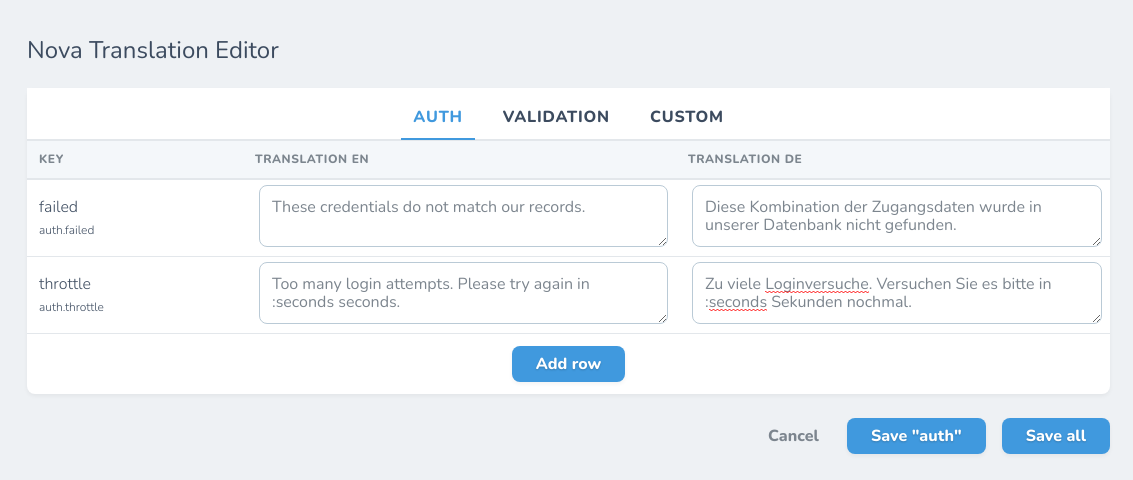
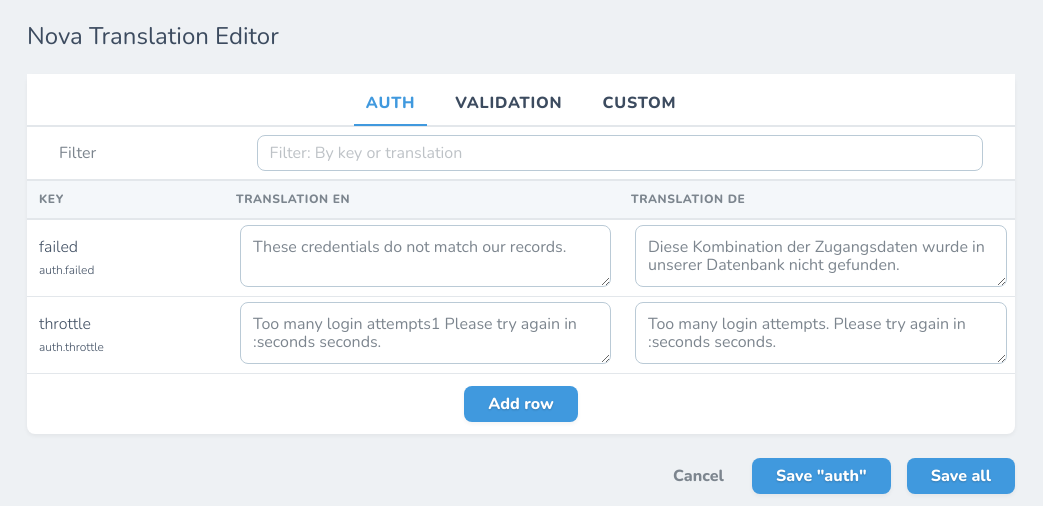
ADD: Filter

diff --git a/dist/js/tool.js b/dist/js/tool.js
@@ -1,1 +1,1 @@
-!function(t){var e={};function n(r){if(e[r])return e[r].exports;var a=e[r]={i:r,l:!1,exports:{}};return t[r].call(a.exports,a,a.exports,n),a.l=!0,a.exports}n.m=t,n.c=e,n.d=function(t,e,r){n.o(t,e)||Object.defineProperty(t,e,{configurable:!1,enumerable:!0,get:r})},n.n=function(t){var e=t&&t.__esModule?function(){return t.default}:function(){return t};return n.d(e,"a",e),e},n.o=function(t,e){return Object.prototype.hasOwnProperty.call(t,e)},n.p="",n(n.s=1)}([function(t,e){t.exports=function(t,e,n,r,a,s){var o,i=t=t||{},u=typeof t.default;"object"!==u&&"function"!==u||(o=t,i=t.default);var l,c="function"==typeof i?i.options:i;if(e&&(c.render=e.render,c.staticRenderFns=e.staticRenderFns,c._compiled=!0),n&&(c.functional=!0),a&&(c._scopeId=a),s?(l=function(t){(t=t||this.$vnode&&this.$vnode.ssrContext||this.parent&&this.parent.$vnode&&this.parent.$vnode.ssrContext)||"undefined"==typeof __VUE_SSR_CONTEXT__||(t=__VUE_SSR_CONTEXT__),r&&r.call(this,t),t&&t._registeredComponents&&t._registeredComponents.add(s)},c._ssrRegister=l):r&&(l=r),l){var d=c.functional,p=d?c.render:c.beforeCreate;d?(c._injectStyles=l,c.render=function(t,e){return l.call(e),p(t,e)}):c.beforeCreate=p?[].concat(p,l):[l]}return{esModule:o,exports:i,options:c}}},function(t,e,n){t.exports=n(2)},function(t,e,n){Nova.booting(function(t,e,r){e.addRoutes([{name:"nova-translation-editor",path:"/nova-translation-editor",component:n(3)}])})},function(t,e,n){var r=n(0)(n(4),n(13),!1,null,null,null);t.exports=r.exports},function(t,e,n){"use strict";Object.defineProperty(e,"__esModule",{value:!0});var r=n(5),a=n.n(r);e.default={components:{AddRowModal:a.a},metaInfo:function(){return{title:this.title+" - "+this.currentGroup}},data:function(){return{title:"Nova Translation Editor",apiUrl:"/nova-vendor/nova-translation-editor/",translations:null,currentGroup:null,showNewModal:!1,loaded:!1,languages:[]}},mounted:function(){this.getData()},computed:{existingKeys:function(){return Object.keys(this.translations[this.currentGroup])},showTable:function(){return this.translations&&Object.keys(this.translations).length>0}},methods:{getData:function(){var t=this;Nova.request().get(this.apiUrl+"index").then(function(e){t.loaded=!0,e.data&&e.data.translations&&(t.translations=e.data.translations,t.languages=e.data.languages,t.currentGroup=Object.keys(t.translations)[0])})},addRow:function(t){var e={};for(var n in this.languages)e[this.languages[n]]="";this.translations[this.currentGroup][t]=e,this.showNewModal=!1},save:function(t){var e=this,n={};t?n[t]=this.translations[t]:n=this.translations,Nova.request().post(this.apiUrl+"save",{data:n}).then(function(t){e.$toasted.show("Saved",{type:"success"})}).catch(function(t){e.$toasted.show(t,{type:"error"})})}}}},function(t,e,n){var r=n(0)(n(11),n(12),!1,function(t){n(6)},"data-v-05dcb287",null);t.exports=r.exports},function(t,e,n){var r=n(7);"string"==typeof r&&(r=[[t.i,r,""]]),r.locals&&(t.exports=r.locals);n(9)("039842e2",r,!0,{})},function(t,e,n){(t.exports=n(8)(!1)).push([t.i,"",""])},function(t,e){t.exports=function(t){var e=[];return e.toString=function(){return this.map(function(e){var n=function(t,e){var n=t[1]||"",r=t[3];if(!r)return n;if(e&&"function"==typeof btoa){var a=(o=r,"/*# sourceMappingURL=data:application/json;charset=utf-8;base64,"+btoa(unescape(encodeURIComponent(JSON.stringify(o))))+" */"),s=r.sources.map(function(t){return"/*# sourceURL="+r.sourceRoot+t+" */"});return[n].concat(s).concat([a]).join("\n")}var o;return[n].join("\n")}(e,t);return e[2]?"@media "+e[2]+"{"+n+"}":n}).join("")},e.i=function(t,n){"string"==typeof t&&(t=[[null,t,""]]);for(var r={},a=0;a<this.length;a++){var s=this[a][0];"number"==typeof s&&(r[s]=!0)}for(a=0;a<t.length;a++){var o=t[a];"number"==typeof o[0]&&r[o[0]]||(n&&!o[2]?o[2]=n:n&&(o[2]="("+o[2]+") and ("+n+")"),e.push(o))}},e}},function(t,e,n){var r="undefined"!=typeof document;if("undefined"!=typeof DEBUG&&DEBUG&&!r)throw new Error("vue-style-loader cannot be used in a non-browser environment. Use { target: 'node' } in your Webpack config to indicate a server-rendering environment.");var a=n(10),s={},o=r&&(document.head||document.getElementsByTagName("head")[0]),i=null,u=0,l=!1,c=function(){},d=null,p="data-vue-ssr-id",f="undefined"!=typeof navigator&&/msie [6-9]\b/.test(navigator.userAgent.toLowerCase());function v(t){for(var e=0;e<t.length;e++){var n=t[e],r=s[n.id];if(r){r.refs++;for(var a=0;a<r.parts.length;a++)r.parts[a](n.parts[a]);for(;a<n.parts.length;a++)r.parts.push(m(n.parts[a]));r.parts.length>n.parts.length&&(r.parts.length=n.parts.length)}else{var o=[];for(a=0;a<n.parts.length;a++)o.push(m(n.parts[a]));s[n.id]={id:n.id,refs:1,parts:o}}}}function h(){var t=document.createElement("style");return t.type="text/css",o.appendChild(t),t}function m(t){var e,n,r=document.querySelector("style["+p+'~="'+t.id+'"]');if(r){if(l)return c;r.parentNode.removeChild(r)}if(f){var a=u++;r=i||(i=h()),e=g.bind(null,r,a,!1),n=g.bind(null,r,a,!0)}else r=h(),e=function(t,e){var n=e.css,r=e.media,a=e.sourceMap;r&&t.setAttribute("media",r);d.ssrId&&t.setAttribute(p,e.id);a&&(n+="\n/*# sourceURL="+a.sources[0]+" */",n+="\n/*# sourceMappingURL=data:application/json;base64,"+btoa(unescape(encodeURIComponent(JSON.stringify(a))))+" */");if(t.styleSheet)t.styleSheet.cssText=n;else{for(;t.firstChild;)t.removeChild(t.firstChild);t.appendChild(document.createTextNode(n))}}.bind(null,r),n=function(){r.parentNode.removeChild(r)};return e(t),function(r){if(r){if(r.css===t.css&&r.media===t.media&&r.sourceMap===t.sourceMap)return;e(t=r)}else n()}}t.exports=function(t,e,n,r){l=n,d=r||{};var o=a(t,e);return v(o),function(e){for(var n=[],r=0;r<o.length;r++){var i=o[r];(u=s[i.id]).refs--,n.push(u)}e?v(o=a(t,e)):o=[];for(r=0;r<n.length;r++){var u;if(0===(u=n[r]).refs){for(var l=0;l<u.parts.length;l++)u.parts[l]();delete s[u.id]}}}};var _,b=(_=[],function(t,e){return _[t]=e,_.filter(Boolean).join("\n")});function g(t,e,n,r){var a=n?"":r.css;if(t.styleSheet)t.styleSheet.cssText=b(e,a);else{var s=document.createTextNode(a),o=t.childNodes;o[e]&&t.removeChild(o[e]),o.length?t.insertBefore(s,o[e]):t.appendChild(s)}}},function(t,e){t.exports=function(t,e){for(var n=[],r={},a=0;a<e.length;a++){var s=e[a],o=s[0],i={id:t+":"+a,css:s[1],media:s[2],sourceMap:s[3]};r[o]?r[o].parts.push(i):n.push(r[o]={id:o,parts:[i]})}return n}},function(t,e,n){"use strict";Object.defineProperty(e,"__esModule",{value:!0}),e.default={name:"AddRowModal",props:{group:{},existingKeys:{}},data:function(){return{keyName:""}},methods:{handleClose:function(){this.$emit("close")},handleSubmit:function(){this.keyName=this.keyName.trim(),-1!=this.existingKeys.indexOf(this.keyName)?this.$toasted.show("This key is already in use",{type:"error"}):this.$emit("create",this.keyName)}},mounted:function(){this.$refs.keyNameInput.focus()}}},function(t,e){t.exports={render:function(){var t=this,e=t.$createElement,n=t._self._c||e;return n("modal",[n("form",{staticClass:"bg-white rounded-lg shadow-lg overflow-hidden",attrs:{autocomplete:"off"},on:{submit:function(e){return e.preventDefault(),t.handleSubmit(e)}}},[n("div",[n("heading",{staticClass:"border-b border-40 py-4 px-2",attrs:{level:2}},[t._v(t._s(t.__("Create"))+' "'+t._s(t.group)+'"')]),t._v(" "),n("div",{staticClass:"p-3"},[n("label",{staticClass:"inline-block text-80 mb-2 leading-tight nova-form-label"},[t._v(t._s(t.__("Key of new translation")))]),n("br"),t._v(" "),n("input",{directives:[{name:"model",rawName:"v-model",value:t.keyName,expression:"keyName"}],ref:"keyNameInput",staticClass:"w-full form-control form-input form-input-bordered",attrs:{type:"text",required:""},domProps:{value:t.keyName},on:{input:function(e){e.target.composing||(t.keyName=e.target.value)}}})])],1),t._v(" "),n("div",{staticClass:"bg-30 px-6 py-3 flex"},[n("div",{staticClass:"flex items-center ml-auto"},[n("button",{staticClass:"btn text-80 font-normal h-9 px-3 mr-3 btn-link",attrs:{type:"button"},on:{click:t.handleClose}},[t._v("\n          "+t._s(t.__("Cancel"))+"\n        ")]),t._v(" "),n("button",{staticClass:"btn btn-default btn-primary",attrs:{type:"submit"}},[n("span",[t._v(t._s(t.__("Create")))])])])])])])},staticRenderFns:[]}},function(t,e){t.exports={render:function(){var t=this,e=t.$createElement,n=t._self._c||e;return n("div",[n("heading",{staticClass:"mb-6"},[t._v(t._s(t.title))]),t._v(" "),t.showTable?n("card",{staticClass:"my-6"},[n("nav",{staticClass:"bg-white px-8 pt-2 border-b-2 border-50"},[n("div",{staticClass:"-mb-px flex justify-center cursor-pointer"},t._l(t.translations,function(e,r){return n("a",{key:r,staticClass:"no-underline border-b-2 uppercase tracking-wide font-bold text-s py-3 mx-2 px-3 inline-block",class:t.currentGroup===r?"text-primary border-primary":" text-grey border-transparent",on:{click:function(e){t.currentGroup=r}}},[t._v("\n          "+t._s(r)+"\n        ")])}),0)]),t._v(" "),t._l(t.translations,function(e,r){return n("div",{directives:[{name:"show",rawName:"v-show",value:t.currentGroup===r,expression:"currentGroup === group"}],key:r+"tab"},[n("table",{staticClass:"table w-full"},[n("thead",[n("tr",[n("th",{staticClass:"text-left w-1/5"},[t._v("Key")]),t._v(" "),t._l(t.languages,function(e){return n("th",{staticClass:"text-left"},[t._v("Translation "+t._s(e))])}),t._v(" "),n("th",{staticClass:"hidden"})],2)]),t._v(" "),n("tbody",t._l(e,function(e,a){return n("tr",[n("td",{staticClass:"text-left py-2"},[t._v("\n              "+t._s(a)+"\n              "),n("p",{staticClass:"text-xs\tmt-2 text-dark-grey"},[t._v(t._s(r)+"."+t._s(a))])]),t._v(" "),t._l(t.languages,function(r){return n("td",{staticClass:"text-left"},[n("textarea",{directives:[{name:"model",rawName:"v-model",value:e[r],expression:"trans[lang]"}],staticClass:"w-full form-input form-input-bordered py-3 m-1 h-auto",attrs:{type:"text"},domProps:{value:e[r]},on:{input:function(n){n.target.composing||t.$set(e,r,n.target.value)}}})])}),t._v(" "),n("td",{staticClass:"hidden"})],2)}),0)]),t._v(" "),n("div",{staticClass:"text-center p-3"},[n("button",{staticClass:"btn btn-default btn-primary",on:{click:function(e){t.showNewModal=!0}}},[t._v("Add row")])])])})],2):t._e(),t._v(" "),t.showTable?n("div",{staticClass:"text-right my-2"},[n("a",{staticClass:"btn btn-link dim cursor-pointer text-80 ml-auto mr-6 router-link-active nova-router-link nova-cancel-button",on:{click:function(e){return t.$router.go()}}},[t._v("\n      "+t._s(t.__("Cancel"))+"\n    ")]),t._v(" "),n("button",{staticClass:"btn btn-default btn-primary mr-3",attrs:{type:"button"},on:{click:function(e){return t.save(t.currentGroup)}}},[t._v(t._s(t.__("Save"))+' "'+t._s(t.currentGroup)+'"')]),t._v(" "),n("button",{staticClass:"btn btn-default btn-primary",attrs:{type:"button"},on:{click:t.save}},[t._v(t._s(t.__("Save all")))])]):t._e(),t._v(" "),!t.showTable&&t.loaded?n("div",{staticClass:"toasted nova error"},[n("p",{staticClass:"mb-2"},[t._v("You have not translation groups (aka translation file) activated in your `config/nova-translation-editor.php` config file.")]),t._v(" "),n("p",[t._v("Please add at least one group to the `groups` array element (for example `auth`, `validation`, etc.).")])]):t._e(),t._v(" "),t.showNewModal?n("add-row-modal",{attrs:{group:t.currentGroup,"existing-keys":t.existingKeys},on:{close:function(e){t.showNewModal=!1},create:t.addRow}}):t._e()],1)},staticRenderFns:[]}}]);
+!function(t){var e={};function n(r){if(e[r])return e[r].exports;var a=e[r]={i:r,l:!1,exports:{}};return t[r].call(a.exports,a,a.exports,n),a.l=!0,a.exports}n.m=t,n.c=e,n.d=function(t,e,r){n.o(t,e)||Object.defineProperty(t,e,{configurable:!1,enumerable:!0,get:r})},n.n=function(t){var e=t&&t.__esModule?function(){return t.default}:function(){return t};return n.d(e,"a",e),e},n.o=function(t,e){return Object.prototype.hasOwnProperty.call(t,e)},n.p="",n(n.s=3)}([function(t,e){t.exports=function(t){var e=[];return e.toString=function(){return this.map(function(e){var n=function(t,e){var n=t[1]||"",r=t[3];if(!r)return n;if(e&&"function"==typeof btoa){var a=(o=r,"/*# sourceMappingURL=data:application/json;charset=utf-8;base64,"+btoa(unescape(encodeURIComponent(JSON.stringify(o))))+" */"),s=r.sources.map(function(t){return"/*# sourceURL="+r.sourceRoot+t+" */"});return[n].concat(s).concat([a]).join("\n")}var o;return[n].join("\n")}(e,t);return e[2]?"@media "+e[2]+"{"+n+"}":n}).join("")},e.i=function(t,n){"string"==typeof t&&(t=[[null,t,""]]);for(var r={},a=0;a<this.length;a++){var s=this[a][0];"number"==typeof s&&(r[s]=!0)}for(a=0;a<t.length;a++){var o=t[a];"number"==typeof o[0]&&r[o[0]]||(n&&!o[2]?o[2]=n:n&&(o[2]="("+o[2]+") and ("+n+")"),e.push(o))}},e}},function(t,e,n){var r="undefined"!=typeof document;if("undefined"!=typeof DEBUG&&DEBUG&&!r)throw new Error("vue-style-loader cannot be used in a non-browser environment. Use { target: 'node' } in your Webpack config to indicate a server-rendering environment.");var a=n(8),s={},o=r&&(document.head||document.getElementsByTagName("head")[0]),i=null,l=0,u=!1,c=function(){},d=null,f="data-vue-ssr-id",p="undefined"!=typeof navigator&&/msie [6-9]\b/.test(navigator.userAgent.toLowerCase());function v(t){for(var e=0;e<t.length;e++){var n=t[e],r=s[n.id];if(r){r.refs++;for(var a=0;a<r.parts.length;a++)r.parts[a](n.parts[a]);for(;a<n.parts.length;a++)r.parts.push(m(n.parts[a]));r.parts.length>n.parts.length&&(r.parts.length=n.parts.length)}else{var o=[];for(a=0;a<n.parts.length;a++)o.push(m(n.parts[a]));s[n.id]={id:n.id,refs:1,parts:o}}}}function h(){var t=document.createElement("style");return t.type="text/css",o.appendChild(t),t}function m(t){var e,n,r=document.querySelector("style["+f+'~="'+t.id+'"]');if(r){if(u)return c;r.parentNode.removeChild(r)}if(p){var a=l++;r=i||(i=h()),e=b.bind(null,r,a,!1),n=b.bind(null,r,a,!0)}else r=h(),e=function(t,e){var n=e.css,r=e.media,a=e.sourceMap;r&&t.setAttribute("media",r);d.ssrId&&t.setAttribute(f,e.id);a&&(n+="\n/*# sourceURL="+a.sources[0]+" */",n+="\n/*# sourceMappingURL=data:application/json;base64,"+btoa(unescape(encodeURIComponent(JSON.stringify(a))))+" */");if(t.styleSheet)t.styleSheet.cssText=n;else{for(;t.firstChild;)t.removeChild(t.firstChild);t.appendChild(document.createTextNode(n))}}.bind(null,r),n=function(){r.parentNode.removeChild(r)};return e(t),function(r){if(r){if(r.css===t.css&&r.media===t.media&&r.sourceMap===t.sourceMap)return;e(t=r)}else n()}}t.exports=function(t,e,n,r){u=n,d=r||{};var o=a(t,e);return v(o),function(e){for(var n=[],r=0;r<o.length;r++){var i=o[r];(l=s[i.id]).refs--,n.push(l)}e?v(o=a(t,e)):o=[];for(r=0;r<n.length;r++){var l;if(0===(l=n[r]).refs){for(var u=0;u<l.parts.length;u++)l.parts[u]();delete s[l.id]}}}};var _,g=(_=[],function(t,e){return _[t]=e,_.filter(Boolean).join("\n")});function b(t,e,n,r){var a=n?"":r.css;if(t.styleSheet)t.styleSheet.cssText=g(e,a);else{var s=document.createTextNode(a),o=t.childNodes;o[e]&&t.removeChild(o[e]),o.length?t.insertBefore(s,o[e]):t.appendChild(s)}}},function(t,e){t.exports=function(t,e,n,r,a,s){var o,i=t=t||{},l=typeof t.default;"object"!==l&&"function"!==l||(o=t,i=t.default);var u,c="function"==typeof i?i.options:i;if(e&&(c.render=e.render,c.staticRenderFns=e.staticRenderFns,c._compiled=!0),n&&(c.functional=!0),a&&(c._scopeId=a),s?(u=function(t){(t=t||this.$vnode&&this.$vnode.ssrContext||this.parent&&this.parent.$vnode&&this.parent.$vnode.ssrContext)||"undefined"==typeof __VUE_SSR_CONTEXT__||(t=__VUE_SSR_CONTEXT__),r&&r.call(this,t),t&&t._registeredComponents&&t._registeredComponents.add(s)},c._ssrRegister=u):r&&(u=r),u){var d=c.functional,f=d?c.render:c.beforeCreate;d?(c._injectStyles=u,c.render=function(t,e){return u.call(e),f(t,e)}):c.beforeCreate=f?[].concat(f,u):[u]}return{esModule:o,exports:i,options:c}}},function(t,e,n){t.exports=n(4)},function(t,e,n){Nova.booting(function(t,e,r){e.addRoutes([{name:"nova-translation-editor",path:"/nova-translation-editor",component:n(5)}])})},function(t,e,n){var r=n(2)(n(9),n(15),!1,function(t){n(6)},null,null);t.exports=r.exports},function(t,e,n){var r=n(7);"string"==typeof r&&(r=[[t.i,r,""]]),r.locals&&(t.exports=r.locals);n(1)("0debc0e4",r,!0,{})},function(t,e,n){(t.exports=n(0)(!1)).push([t.i,".clear-filter-icon{right:2.5rem;top:1rem}",""])},function(t,e){t.exports=function(t,e){for(var n=[],r={},a=0;a<e.length;a++){var s=e[a],o=s[0],i={id:t+":"+a,css:s[1],media:s[2],sourceMap:s[3]};r[o]?r[o].parts.push(i):n.push(r[o]={id:o,parts:[i]})}return n}},function(t,e,n){"use strict";Object.defineProperty(e,"__esModule",{value:!0});var r=n(10),a=n.n(r);e.default={components:{AddRowModal:a.a},metaInfo:function(){return{title:this.title+" - "+this.currentGroup}},data:function(){return{title:"Nova Translation Editor",apiUrl:"/nova-vendor/nova-translation-editor/",translations:null,currentGroup:null,showNewModal:!1,loaded:!1,languages:[],filterString:""}},mounted:function(){this.getData()},computed:{existingKeys:function(){return Object.keys(this.translations[this.currentGroup])},filterdCurrentTranslations:function(){var t=this.translations[this.currentGroup],e={};if(this.filterString)for(var n in t){var r=t[n];for(var a in n.search(this.filterString)>=0&&(e[n]=r),r){r[a].search(this.filterString)>=0&&(e[n]=r)}}else e=t;return e},showTable:function(){return this.translations&&Object.keys(this.translations).length>0}},methods:{getData:function(){var t=this;Nova.request().get(this.apiUrl+"index").then(function(e){t.loaded=!0,e.data&&e.data.translations&&(t.translations=e.data.translations,t.languages=e.data.languages,t.currentGroup=Object.keys(t.translations)[0])})},addRow:function(t){var e={};for(var n in this.languages)e[this.languages[n]]="";this.translations[this.currentGroup][t]=e,this.showNewModal=!1},save:function(t){var e=this,n={};t?n[t]=this.translations[t]:n=this.translations,Nova.request().post(this.apiUrl+"save",{data:n}).then(function(t){e.$toasted.show("Saved",{type:"success"})}).catch(function(t){e.$toasted.show(t,{type:"error"})})}}}},function(t,e,n){var r=n(2)(n(13),n(14),!1,function(t){n(11)},"data-v-05dcb287",null);t.exports=r.exports},function(t,e,n){var r=n(12);"string"==typeof r&&(r=[[t.i,r,""]]),r.locals&&(t.exports=r.locals);n(1)("039842e2",r,!0,{})},function(t,e,n){(t.exports=n(0)(!1)).push([t.i,"",""])},function(t,e,n){"use strict";Object.defineProperty(e,"__esModule",{value:!0}),e.default={name:"AddRowModal",props:{group:{},existingKeys:{}},data:function(){return{keyName:""}},methods:{handleClose:function(){this.$emit("close")},handleSubmit:function(){this.keyName=this.keyName.trim(),-1!=this.existingKeys.indexOf(this.keyName)?this.$toasted.show("This key is already in use",{type:"error"}):this.$emit("create",this.keyName)}},mounted:function(){this.$refs.keyNameInput.focus()}}},function(t,e){t.exports={render:function(){var t=this,e=t.$createElement,n=t._self._c||e;return n("modal",[n("form",{staticClass:"bg-white rounded-lg shadow-lg overflow-hidden",attrs:{autocomplete:"off"},on:{submit:function(e){return e.preventDefault(),t.handleSubmit(e)}}},[n("div",[n("heading",{staticClass:"border-b border-40 py-4 px-2",attrs:{level:2}},[t._v(t._s(t.__("Create"))+' "'+t._s(t.group)+'"')]),t._v(" "),n("div",{staticClass:"p-3"},[n("label",{staticClass:"inline-block text-80 mb-2 leading-tight nova-form-label"},[t._v(t._s(t.__("Key of new translation")))]),n("br"),t._v(" "),n("input",{directives:[{name:"model",rawName:"v-model",value:t.keyName,expression:"keyName"}],ref:"keyNameInput",staticClass:"w-full form-control form-input form-input-bordered",attrs:{type:"text",required:""},domProps:{value:t.keyName},on:{input:function(e){e.target.composing||(t.keyName=e.target.value)}}})])],1),t._v(" "),n("div",{staticClass:"bg-30 px-6 py-3 flex"},[n("div",{staticClass:"flex items-center ml-auto"},[n("button",{staticClass:"btn text-80 font-normal h-9 px-3 mr-3 btn-link",attrs:{type:"button"},on:{click:t.handleClose}},[t._v("\n          "+t._s(t.__("Cancel"))+"\n        ")]),t._v(" "),n("button",{staticClass:"btn btn-default btn-primary",attrs:{type:"submit"}},[n("span",[t._v(t._s(t.__("Create")))])])])])])])},staticRenderFns:[]}},function(t,e){t.exports={render:function(){var t=this,e=t.$createElement,n=t._self._c||e;return n("div",[n("heading",{staticClass:"mb-6"},[t._v(t._s(t.title))]),t._v(" "),t.showTable?n("card",{staticClass:"my-6"},[n("nav",{staticClass:"bg-white px-8 pt-2 border-b-2 border-50"},[n("div",{staticClass:"-mb-px flex justify-center cursor-pointer"},t._l(t.translations,function(e,r){return n("a",{key:r,staticClass:"no-underline border-b-2 uppercase tracking-wide font-bold text-s py-3 mx-2 px-3 inline-block",class:t.currentGroup===r?"text-primary border-primary":" text-grey border-transparent",on:{click:function(e){t.currentGroup=r}}},[t._v("\n          "+t._s(r)+"\n        ")])}),0)]),t._v(" "),t._l(t.translations,function(e,r){return t.currentGroup===r?n("div",{key:r+"tab"},[n("div",{staticClass:"flex border-b-2 border-50"},[n("div",{staticClass:"w-1/5 px-8 py-2"},[n("label",{staticClass:"inline-block text-80 pt-2 leading-tight",attrs:{for:"name"}},[t._v(t._s(t.__("Filter")))])]),t._v(" "),n("div",{staticClass:"w-4/5 py-2 px-8 relative"},[t.filterString?n("span",{staticClass:"cursor-pointer text-primary absolute clear-filter-icon",attrs:{title:t.__("Clear filter")},on:{click:function(e){t.filterString=""}}},[n("svg",{staticClass:"w-6 h-6",attrs:{fill:"none",stroke:"currentColor",viewBox:"0 0 24 24",xmlns:"http://www.w3.org/2000/svg"}},[n("path",{attrs:{"stroke-linecap":"round","stroke-linejoin":"round","stroke-width":"2",d:"M10 14l2-2m0 0l2-2m-2 2l-2-2m2 2l2 2m7-2a9 9 0 11-18 0 9 9 0 0118 0z"}})])]):t._e(),t._v(" "),n("input",{directives:[{name:"model",rawName:"v-model",value:t.filterString,expression:"filterString"}],staticClass:"w-full form-control form-input form-input-bordered",attrs:{type:"text",placeholder:t.__("Filter")+": By key or translation"},domProps:{value:t.filterString},on:{input:function(e){e.target.composing||(t.filterString=e.target.value)}}})])]),t._v(" "),n("table",{staticClass:"table w-full"},[n("thead",[n("tr",[n("th",{staticClass:"text-left w-1/5"},[t._v("Key")]),t._v(" "),t._l(t.languages,function(e){return n("th",{staticClass:"text-left"},[t._v("Translation "+t._s(e))])}),t._v(" "),n("th",{staticClass:"hidden"})],2)]),t._v(" "),n("tbody",t._l(t.filterdCurrentTranslations,function(e,a){return n("tr",[n("td",{staticClass:"text-left py-2"},[t._v("\n              "+t._s(a)+"\n              "),n("p",{staticClass:"text-xs\tmt-2 text-dark-grey"},[t._v(t._s(r)+"."+t._s(a))])]),t._v(" "),t._l(t.languages,function(r){return n("td",{staticClass:"text-left"},[n("textarea",{directives:[{name:"model",rawName:"v-model",value:e[r],expression:"trans[lang]"}],staticClass:"w-full form-input form-input-bordered py-3 m-1 h-auto",attrs:{type:"text"},domProps:{value:e[r]},on:{input:function(n){n.target.composing||t.$set(e,r,n.target.value)}}})])}),t._v(" "),n("td",{staticClass:"hidden"})],2)}),0)]),t._v(" "),n("div",{staticClass:"text-center p-3"},[n("button",{staticClass:"btn btn-default btn-primary",on:{click:function(e){t.showNewModal=!0}}},[t._v("Add row")])])]):t._e()})],2):t._e(),t._v(" "),t.showTable?n("div",{staticClass:"text-right my-2"},[n("a",{staticClass:"btn btn-link dim cursor-pointer text-80 ml-auto mr-6 router-link-active nova-router-link nova-cancel-button",on:{click:function(e){return t.$router.go()}}},[t._v("\n      "+t._s(t.__("Cancel"))+"\n    ")]),t._v(" "),n("button",{staticClass:"btn btn-default btn-primary mr-3",attrs:{type:"button"},on:{click:function(e){return t.save(t.currentGroup)}}},[t._v(t._s(t.__("Save"))+' "'+t._s(t.currentGroup)+'"')]),t._v(" "),n("button",{staticClass:"btn btn-default btn-primary",attrs:{type:"button"},on:{click:t.save}},[t._v(t._s(t.__("Save all")))])]):t._e(),t._v(" "),!t.showTable&&t.loaded?n("div",{staticClass:"toasted nova error"},[n("p",{staticClass:"mb-2"},[t._v("You have not translation groups (aka translation file) activated in your `config/nova-translation-editor.php` config file.")]),t._v(" "),n("p",[t._v("Please add at least one group to the `groups` array element (for example `auth`, `validation`, etc.).")])]):t._e(),t._v(" "),t.showNewModal?n("add-row-modal",{attrs:{group:t.currentGroup,"existing-keys":t.existingKeys},on:{close:function(e){t.showNewModal=!1},create:t.addRow}}):t._e()],1)},staticRenderFns:[]}}]);

diff --git a/resources/js/components/Tool.vue b/resources/js/components/Tool.vue
@@ -14,7 +14,26 @@
         </div>
       </nav>
 
-      <div v-for="(translation, group) in translations" v-show="currentGroup === group" :key="group + 'tab'">
+      <div v-for="(translation, group) in translations" v-if="currentGroup === group" :key="group + 'tab'">
+        <div class="flex border-b-2 border-50">
+          <div class="w-1/5 px-8 py-2">
+            <label for="name" class="inline-block text-80 pt-2 leading-tight">{{ __('Filter') }}</label>
+          </div>
+          <div class="w-4/5 py-2 px-8 relative">
+            <span
+                v-if="filterString"
+                @click="filterString = ''"
+                class="cursor-pointer text-primary absolute clear-filter-icon"
+                :title="__('Clear filter')">
+              <svg class="w-6 h-6" fill="none" stroke="currentColor" viewBox="0 0 24 24" xmlns="http://www.w3.org/2000/svg"><path stroke-linecap="round" stroke-linejoin="round" stroke-width="2" d="M10 14l2-2m0 0l2-2m-2 2l-2-2m2 2l2 2m7-2a9 9 0 11-18 0 9 9 0 0118 0z"></path></svg>
+            </span>
+            <input type="text"
+                   :placeholder="__('Filter') + ': By key or translation'"
+                   class="w-full form-control form-input form-input-bordered"
+                   v-model="filterString">
+          </div>
+        </div>
+
         <table class="table w-full">
           <thead>
             <tr>
@@ -24,7 +43,7 @@
             </tr>
           </thead>
           <tbody>
-            <tr v-for="(trans, key) in translation">
+            <tr v-for="(trans, key) in filterdCurrentTranslations">
               <td class="text-left py-2">
                 {{ key }}
                 <p class="text-xs	mt-2 text-dark-grey">{{ group}}.{{ key}}</p>
@@ -79,7 +98,8 @@ export default {
       currentGroup: null,
       showNewModal: false,
       loaded: false,
-      languages: []
+      languages: [],
+      filterString: ''
     }
   },
   mounted() {
@@ -88,6 +108,32 @@ export default {
   computed: {
     existingKeys() {
       return Object.keys(this.translations[this.currentGroup]);
+    },
+    filterdCurrentTranslations() {
+      const current = this.translations[this.currentGroup];
+      let filtered = {};
+
+      if(this.filterString) {
+        for(let prop in current) {
+          const row = current[prop];
+
+          if(prop.search(this.filterString) >= 0) {
+            filtered[prop] = row;
+          }
+
+          for(let lang in row) {
+            const trans = row[lang];
+            if(trans.search(this.filterString) >= 0) {
+              filtered[prop] = row;
+            }
+          }
+        }
+      }
+      else {
+        filtered = current;
+      }
+
+      return filtered;
     },
     showTable() {
       return this.translations && Object.keys(this.translations).length > 0;
@@ -132,3 +178,10 @@ export default {
   }
 }
 </script>
+
+<style>
+.clear-filter-icon {
+  right: 2.5rem;
+  top: 1rem;
+}
+</style>

diff --git a/README.md b/README.md
@@ -1,16 +1,17 @@
 # Nova Translation Editor
 
-This is a laravel nova package to manage/edit your translations and it depends on `spatie/laravel-translation-loader`.
+This is a laravel nova package to manage/edit your translations. It depends on `spatie/laravel-translation-loader`.
 
 ![screenshot](https://raw.githubusercontent.com/bernhardh/nova-translation-editor/master/docs/screenshot.png)
 
 ## Features
 
-- Decide which translation group/file you wanna make editable (`auth`, `validation`, etc.)
+- Decide which translation group/file you want to make editable (`auth`, `validation`, etc.)
 - Add new keys to the translation group
 - Save all changes at once or only from current tab
 - Multiple languages support
 - Respects you own theme colors
+- Filter the table by key or translation 
 
 ## Installation
 
